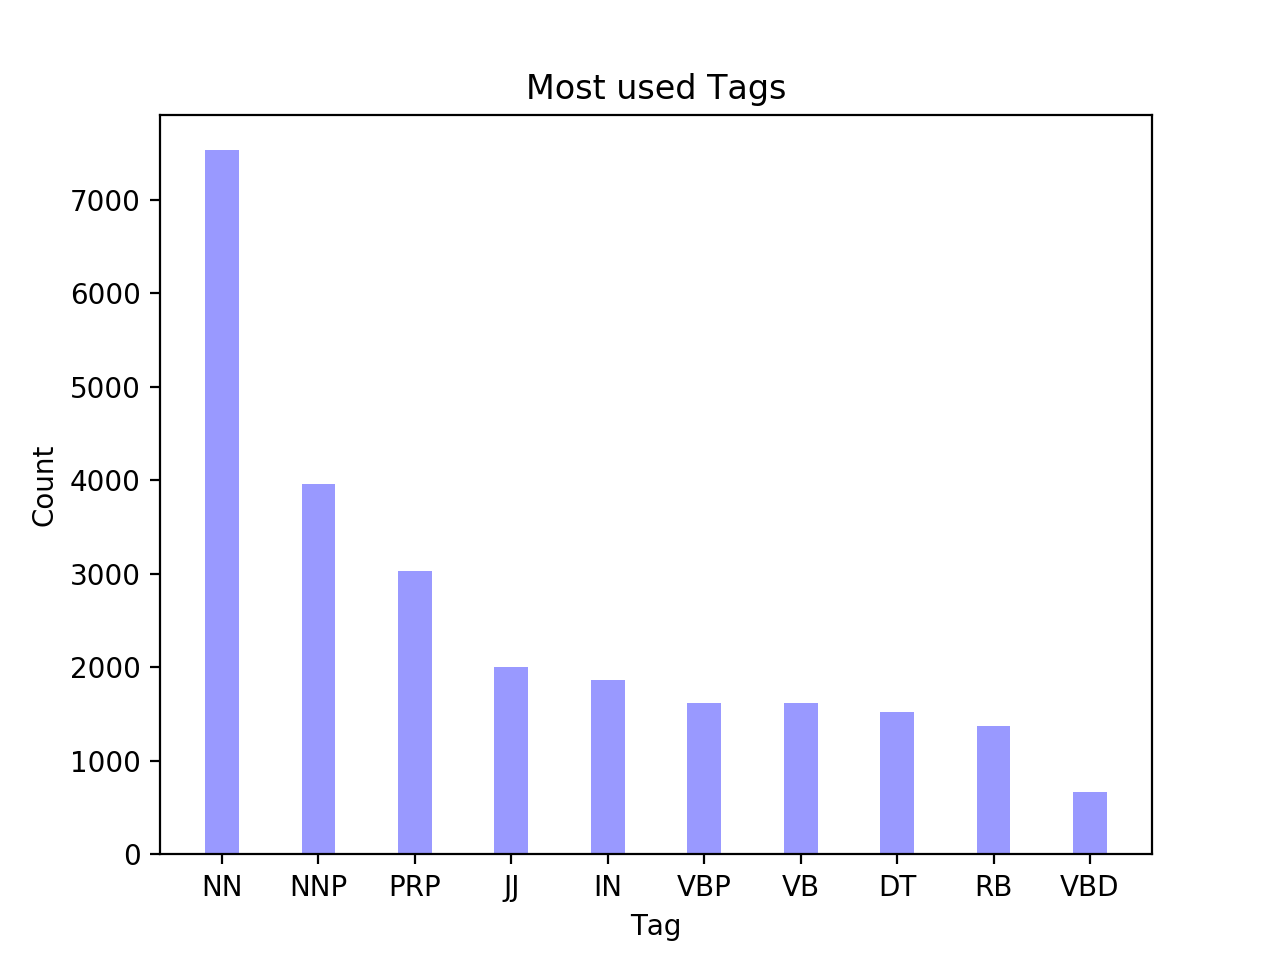
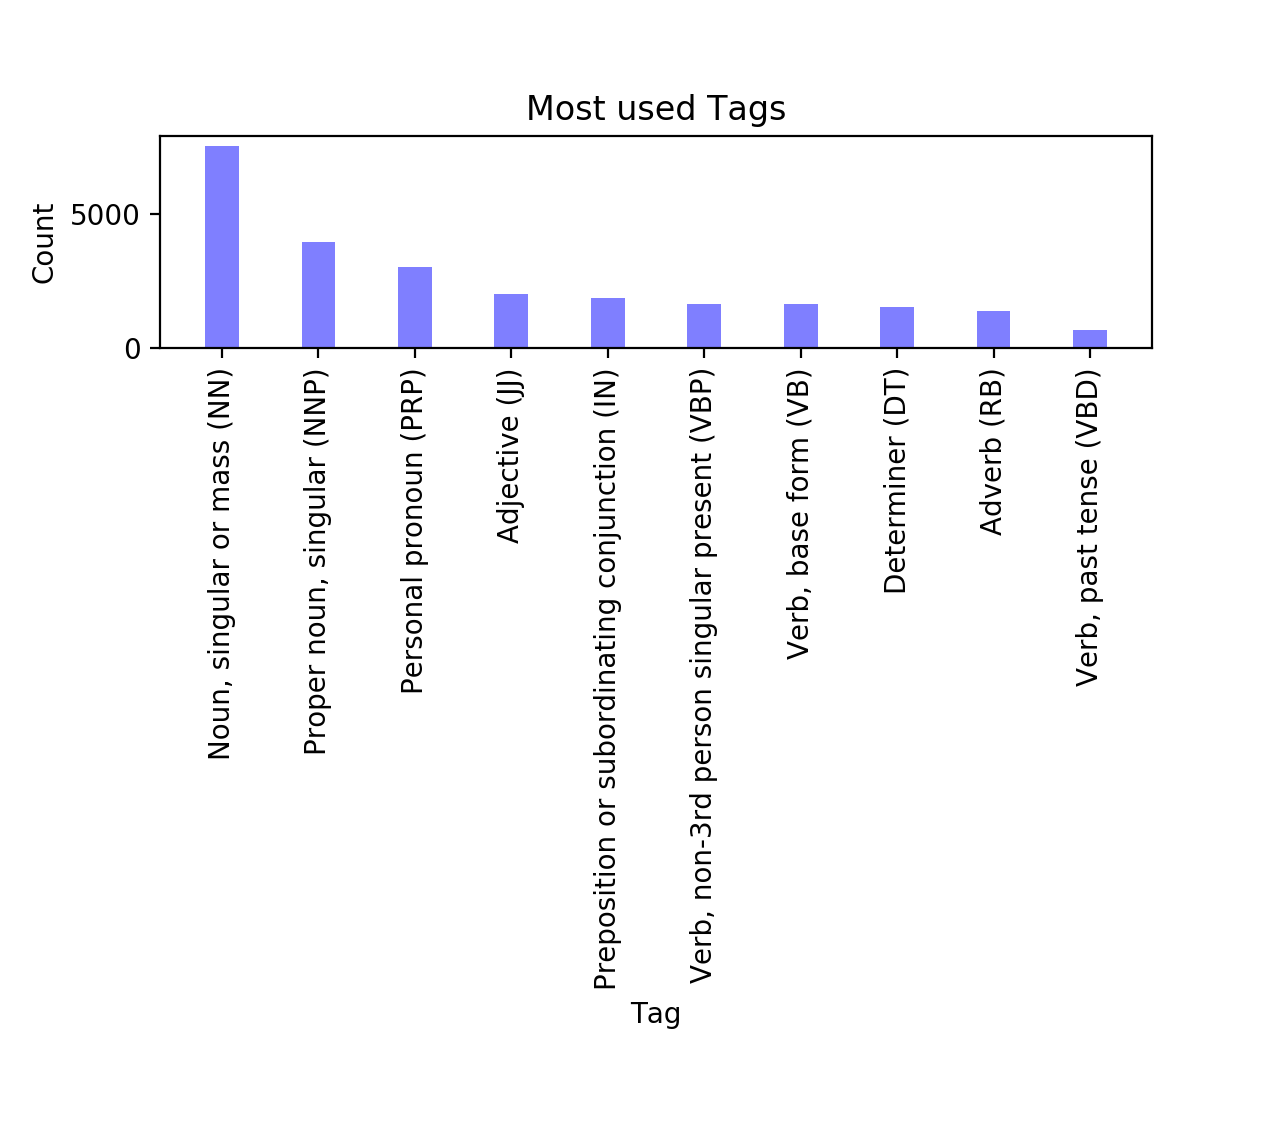
Add new graphs and get clean title

diff --git a/main.py b/main.py
@@ -14,6 +14,8 @@ import matplotlib.pyplot as plt
 import numpy as np
 import operator
 
+import csv
+
 
 def main():
     index_url = "http://www.metrolyrics.com/top100.html"
@@ -55,6 +57,8 @@ def main():
         all_lyrics_blob.word_counts.items(), reverse=True, key=operator.itemgetter(1)
     )[0:10]
 
+    pos_lookup = get_pos()
+
     build_bar_chart(
         tuple([word[1] for word in top_words]),
         "Word",
@@ -77,11 +81,8 @@ def main():
         "Tag",
         "Count",
         "Most used Tags",
-        labels=[tag[0] for tag in top_tags],
+        labels=["%s (%s)" % (pos_lookup[tag[0]], tag[0]) for tag in top_tags],
     )
-
-    # polarity is whether the expressed opinion in the text is positive, negative, or
-    # neutral
 
     polarity_sort = sorted(
         analysis, key=lambda x: x.blob.sentiment.polarity, reverse=True
@@ -95,7 +96,7 @@ def main():
         "Songs",
         "Polarity",
         "Most positive songs",
-        labels=[a.title for a in polarity_sort],
+        labels=[a.title() for a in polarity_sort],
     )
 
     build_bar_chart(
@@ -103,7 +104,7 @@ def main():
         "Songs",
         "Subjectivity",
         "Most Subjective songs",
-        labels=[a.title for a in subjectivity_sort],
+        labels=[a.title() for a in subjectivity_sort],
     )
     plt.show()
 
@@ -111,12 +112,20 @@ def main():
     # Least Subjective (subjectivity) songs
 
 
+def get_pos():
+    pos_lookup = {}
+    with open("pos.txt") as tsv:
+        for line in csv.reader(tsv, dialect="excel-tab"):
+            pos_lookup[line[1]] = line[2]
+    return pos_lookup
+
+
 def build_bar_chart(data, ylabel, xlabel, title, labels=None):
     n_groups = len(data)
     _, ax = plt.subplots()
     index = np.arange(n_groups)
     bar_width = 0.35
-    opacity = 0.4
+    opacity = 0.5
     ax.bar(index, data, bar_width, alpha=opacity, color="b")
     ax.set_xlabel(ylabel)
     ax.set_ylabel(xlabel)
@@ -124,15 +133,21 @@ def build_bar_chart(data, ylabel, xlabel, title, labels=None):
     ax.set_xticks(index)
     if labels:
         ax.set_xticklabels(labels, rotation="vertical")
+    plt.subplots_adjust(bottom=0.4)
 
 
 class LyricsContainer:
 
     def __init__(self, title, url, lyric_text):
-        self.title = title
+        self._title = title
         self.blob = TextBlob(lyric_text)
         self.url = url
         self.lyric_text = lyric_text
+
+    def title(self):
+        if "igger" in self._title:
+            self._title = self._title.replace("igge", "****")
+        return self._title
 
 
 def read_cached_text(url):
